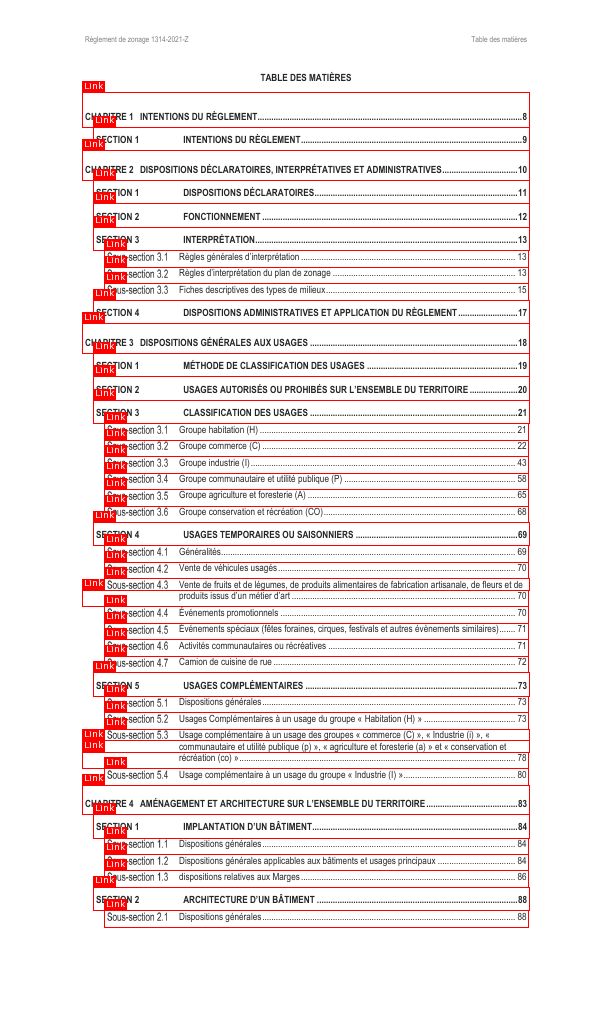
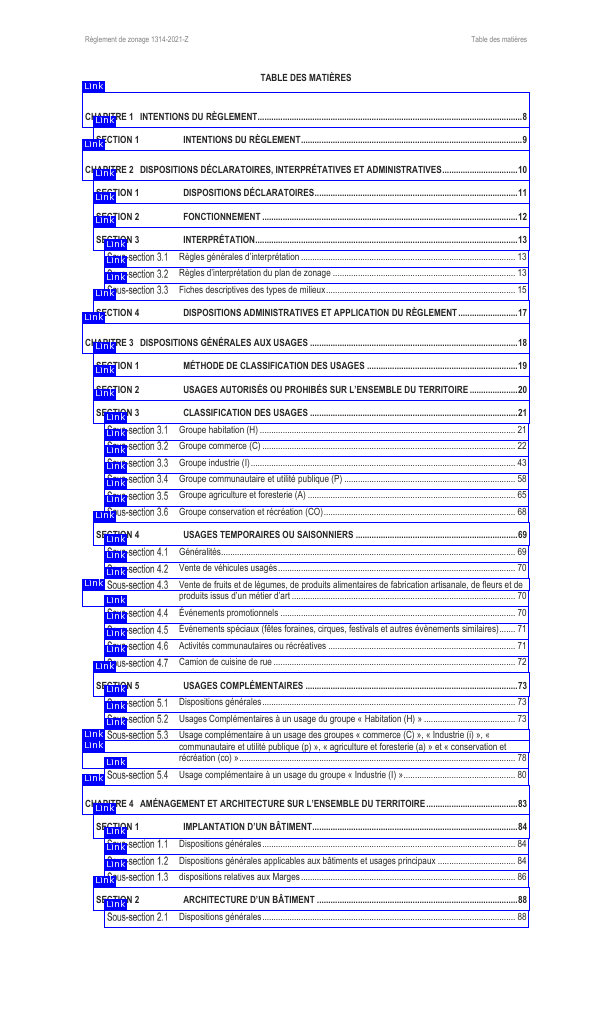
feat: support matplotlib color cycles

diff --git a/src/paves/image.py b/src/paves/image.py
@@ -413,10 +413,14 @@ def _render(
     return show(page, dpi=dpi)
 
 
-Color = Union[str, Tuple[int, int, int]]
+Color = Union[str, Tuple[int, int, int], Tuple[float, float, float]]
 """Type alias for things that can be used as colors."""
 Colors = Union[Color, List[Color], Dict[str, Color]]
 """Type alias for colors or collections of colors."""
+PillowColor = Union[str, Tuple[int, int, int]]
+"""Type alias for things Pillow accepts as colors."""
+ColorMaker = Callable[[str], PillowColor]
+"""Function that makes a Pillow color for a string label."""
 DEFAULT_COLOR_CYCLE: Colors = [
     "blue",
     "orange",
@@ -432,38 +436,50 @@ DEFAULT_COLOR_CYCLE: Colors = [
 """Default color cycle (same as matplotlib)"""
 
 
+def pillow_color(color: Color) -> PillowColor:
+    """Convert colors to a form acceptable to Pillow."""
+    if isinstance(color, str):
+        return color
+    r, g, b = color
+    # Would sure be nice if MyPy understood all()
+    if isinstance(r, int) and isinstance(g, int) and isinstance(b, int):
+        return (r, g, b)
+    r, g, b = (int(x * 255) for x in color)
+    return (r, g, b)
+
+
 @functools.singledispatch
-def color_maker(spec: Colors, default: Color = "red") -> Callable[[str], Color]:
+def color_maker(spec: Colors, default: Color = "red") -> ColorMaker:
     """Create a function that makes colors."""
-    return lambda _: default
+    return lambda _: pillow_color(default)
 
 
 @color_maker.register(str)
 @color_maker.register(tuple)
-def _color_maker_single(spec: Color, default: Color = "red") -> Callable[[str], Color]:
-    return lambda _: spec
+def _color_maker_string(spec: Color, default: Color = "red") -> ColorMaker:
+    return lambda _: pillow_color(spec)
 
 
 @color_maker.register(dict)
-def _color_maker_dict(
-    spec: Dict[str, Color], default: Color = "red"
-) -> Callable[[str], Color]:
-    def maker(label: str) -> Color:
-        return spec.get(label, default)
+def _color_maker_dict(spec: Dict[str, Color], default: Color = "red") -> ColorMaker:
+    colors: Dict[str, PillowColor] = {k: pillow_color(v)
+                                      for k, v in spec.items()}
+    pdefault: PillowColor = pillow_color(default)
+
+    def maker(label: str) -> PillowColor:
+        return colors.get(label, pdefault)
 
     return maker
 
 
 @color_maker.register(list)
-def _color_maker_list(
-    spec: List[Color], default: Color = "UNUSED"
-) -> Callable[[str], Color]:
+def _color_maker_list(spec: List[Color], default: Color = "UNUSED") -> ColorMaker:
     itor = itertools.cycle(spec)
-    colors: Dict[str, Color] = {}
+    colors: Dict[str, PillowColor] = {}
 
-    def maker(label: str) -> Color:
-        if label not in spec:
-            colors[label] = next(itor)
+    def maker(label: str) -> PillowColor:
+        if label not in colors:
+            colors[label] = pillow_color(next(itor))
         return colors[label]
 
     return maker

diff --git a/README.md b/README.md
@@ -103,8 +103,22 @@ pi.mark(page, outline=True, label=True,
 
 ![Annotations](./docs/page298-outlines.png)
 
-There are even more options!  For now you will need to look at the
-source code, documentation is Coming Soon.
+By default, PAVÉS will assign a new colour to each distinct label based
+on a colour cycle [borrowed from
+Matplotlib](https://matplotlib.org/stable/gallery/color/color_cycle_default.html)
+(no actual Matplotlib was harmed in the making of this library).  You
+can use Matplotlib's colour cycles if you like:
+
+```
+import matplotlib
+pi.box(page, color=matplotlib.color_sequences["Dark2"])
+```
+
+Or just any list (it must be a `list`) of color specifications (which
+are either strings, 3-tuples of integers in the range `[0, 255]`, or
+3-tuples of floats in the range `[0.0, 1.0]`)
+
+![Annotations](./docs/page2-color-cycles.png)
 
 ## Working in the PDF mine
 
